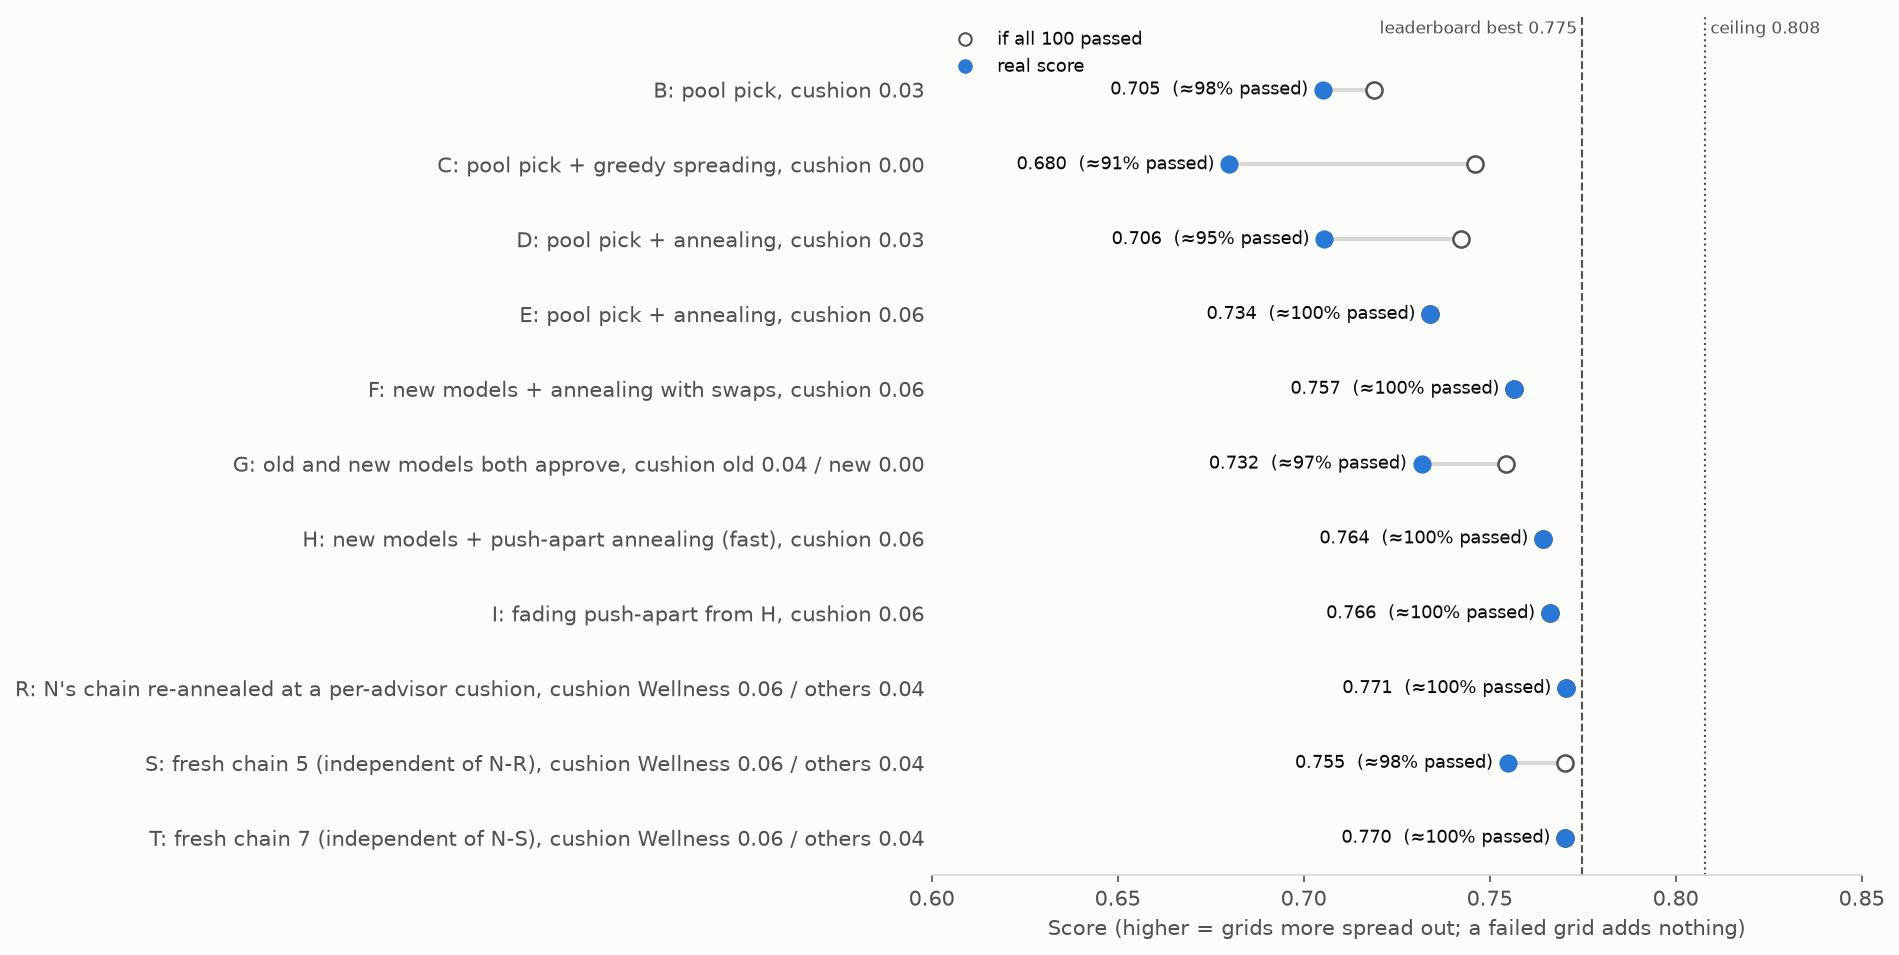
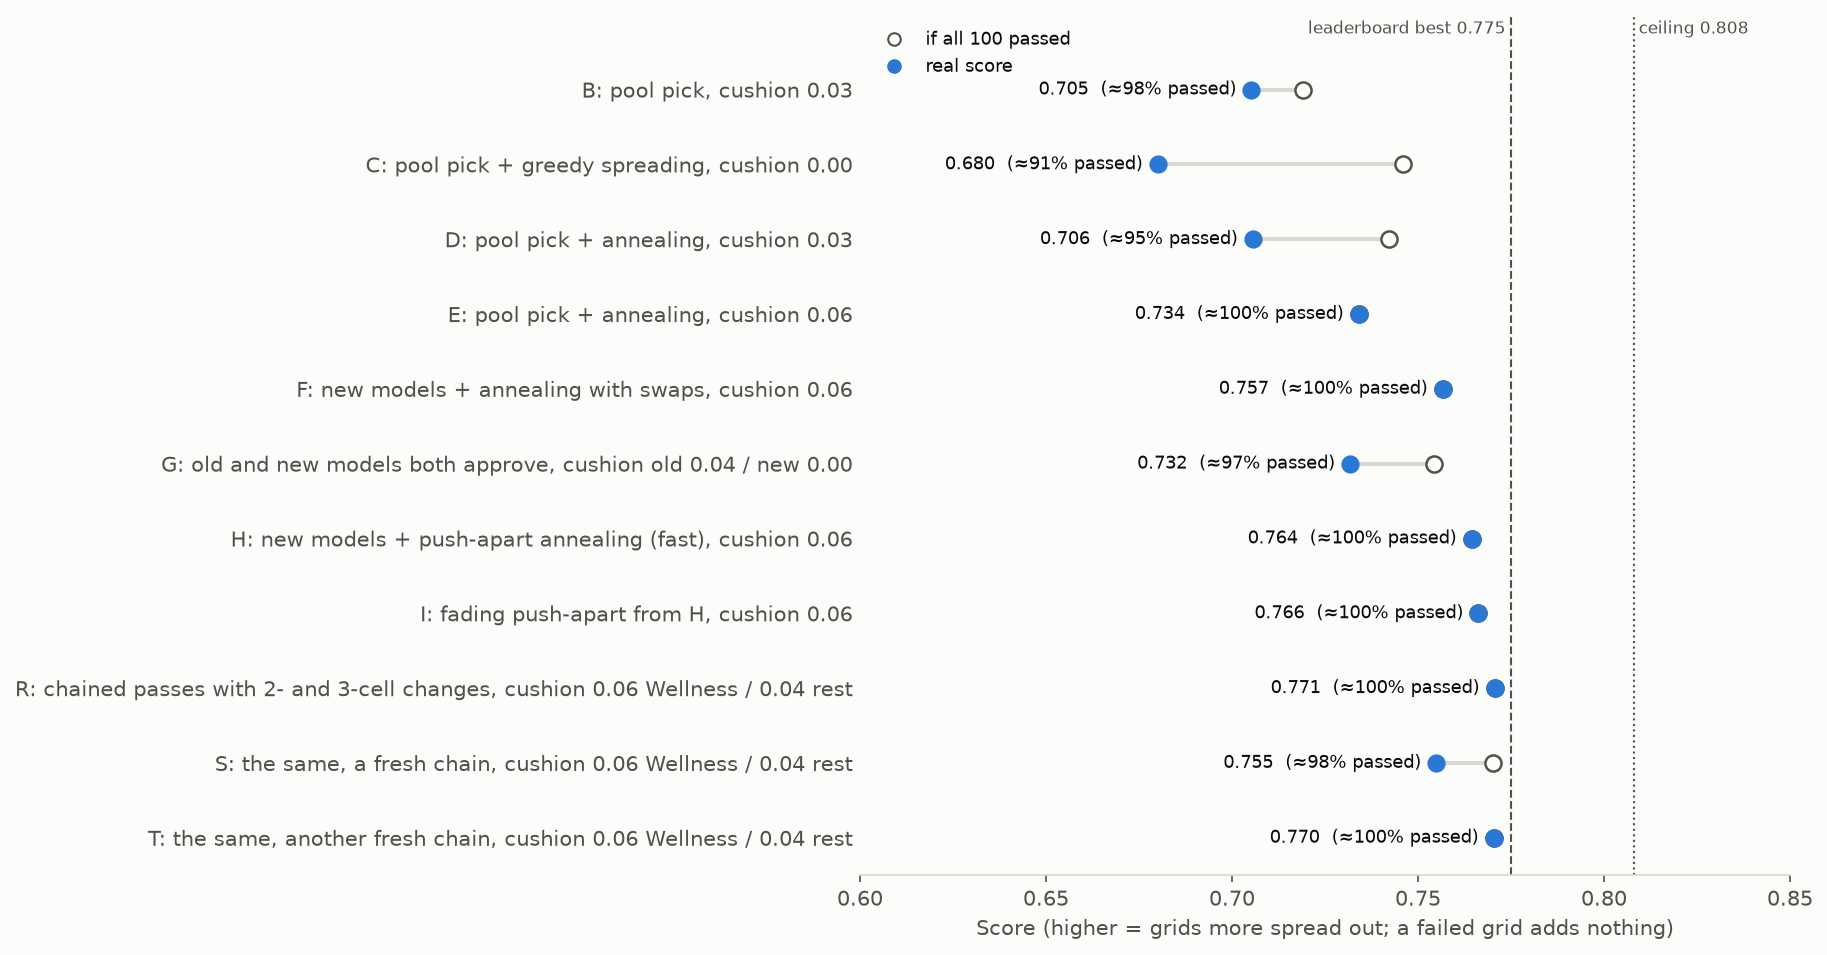
Report figures: search methods compared (new), cushion per advisor, shorter scoreboard labels

diff --git a/plots.py b/plots.py
@@ -26,7 +26,8 @@ Stage 4 figures (README Figures 2-3):
 
 Report figures (make_figures.py --stage 5):
 * ``fig_model_approvals(rows, passing)``  approvals at 98% precision, model by model.
-* ``fig_failure_bands(shares)``           held-out failures by distance above the cut-off.
+* ``fig_failure_bands(shares, cushions)`` held-out failures by distance above the cut-off.
+* ``fig_search(runs, ceilings)``           search methods from the same start, as annealing goes on.
 
 Every figure carries labels only. Titles and descriptions are captions placed below the figure
 (stage documents in docs/, analysis.ipynb), following standard practice for documents.
@@ -55,6 +56,7 @@ from __future__ import annotations
 
 import matplotlib.pyplot as plt
 import numpy as np
+from matplotlib.colors import to_rgba
 from matplotlib.lines import Line2D
 from matplotlib.patches import Patch, Rectangle
 
@@ -999,9 +1001,10 @@ def fig_model_approvals(rows, passing):
     return fig
 
 
-def fig_failure_bands(shares, cushion=0.06):
+def fig_failure_bands(shares, cushions):
     """Share of held-out grids that truly fail, by how far the model put them above its
-    cut-off (shares: {advisor: {(lo, hi): share}}), with the cushion we used marked."""
+    cut-off (shares: {advisor: {(lo, hi): share}}). Bars below an advisor's cushion
+    (cushions: {advisor: margin}) are pale: no submitted design sat there."""
     advisors = list(shares)
     bands = list(next(iter(shares.values())))
     fig, ax = plt.subplots(figsize=(8, 3.4))
@@ -1009,18 +1012,67 @@ def fig_failure_bands(shares, cushion=0.06):
     for k, adv in enumerate(advisors):
         x = np.arange(len(bands)) + (k - (len(advisors) - 1) / 2) * width
         vals = [100 * shares[adv][b] for b in bands]
-        ax.bar(x, vals, width, color=SERIES[k], edgecolor=SURFACE, linewidth=2, label=adv)
+        alpha = [1 if lo >= cushions[adv] - 1e-9 else 0.3 for lo, _ in bands]
+        ax.bar(x, vals, width, color=[to_rgba(SERIES[k], a) for a in alpha],
+               edgecolor=SURFACE, linewidth=2)
         for xi, v in zip(x, vals):
             ax.text(xi, v + 0.4, f"{v:.0f}" if v >= 10 else f"{v:.1f}", ha="center",
                     va="bottom", fontsize=7.5)
-    edge = next(i for i, (lo, _) in enumerate(bands) if lo >= cushion) - 0.5
-    ax.axvline(edge, color=INK_2, lw=1, ls="--")
-    ax.text(edge + 0.05, ax.get_ylim()[1] * 0.92, f"our cushion, {cushion}: above this line",
-            fontsize=8.5, color=INK_2)
     ax.set_xticks(range(len(bands)), [f"{lo:.2f}–{hi:.2f}" for lo, hi in bands])
     ax.set_xlabel("How far the model put the grid above its approval cut-off")
     ax.set_ylabel("Held-out grids that truly fail (%)")
     ax.grid(axis="y")
     ax.set_axisbelow(True)
-    ax.legend(fontsize=8.5, ncol=len(advisors), loc="upper center", bbox_to_anchor=(0.5, 1.12))
+    handles = [Patch(color=SERIES[k], label=f"{a} (cushion {cushions[a]:.2f})")
+               for k, a in enumerate(advisors)]
+    handles.append(Patch(color=INK_2, alpha=0.3, label="below that advisor's cushion"))
+    ax.legend(handles=handles, fontsize=8.5, loc="upper right")
+    return fig
+
+
+def _spread(values, gap):
+    """Label heights for line ends: the values, nudged apart so no two are closer than gap."""
+    order = np.argsort(values)
+    out = np.array(values, float)
+    for prev, i in zip(order, order[1:]):
+        out[i] = max(out[i], out[prev] + gap)
+    return out
+
+
+def fig_search(runs, ceilings):
+    """Score if all pass as annealing goes on, for search methods run from the same start,
+    models and cushion (runs: [{panel, method, updates, score, ends}], ends = where each
+    chained pass finished). Colour follows the method; dashed lines mark scores reached with
+    no approval rule (ceilings: {label: score})."""
+    panels = list(dict.fromkeys(r["panel"] for r in runs))
+    methods = list(dict.fromkeys(r["method"] for r in runs))
+    fig, axes = plt.subplots(1, len(panels), figsize=(10, 3.8), sharey=True)
+    for ax, panel in zip(axes, panels):
+        mine = [r for r in runs if r["panel"] == panel]
+        x_end = max(r["updates"][-1] for r in mine) / 1000
+        tops = _spread([r["score"][-1] for r in mine], 0.0013)
+        for r, top in zip(mine, tops):
+            colour = SERIES[methods.index(r["method"])]
+            x = np.array(r["updates"]) / 1000
+            ax.plot(x, r["score"], color=colour, lw=2)
+            ends = [r["updates"].index(u) for u in r["ends"]]
+            ax.scatter(x[ends], np.array(r["score"])[ends], s=40, color=colour, ec=SURFACE,
+                       lw=2, zorder=3)
+            ax.text(x[-1] + 0.03 * x_end, top, f"{r['score'][-1]:.4f}", va="center",
+                    fontsize=8.5)
+        for label, y in ceilings.items():
+            ax.axhline(y, color=INK_2, lw=1, ls="--", zorder=0)
+            ax.text(0, y + 0.0007, f"{label}: {y:.3f}", fontsize=8, color=INK_2)
+        ax.set_title(panel, fontsize=10)
+        ax.set_xlim(0, x_end * 1.15)
+        ax.set_xlabel("Annealing updates (thousands)")
+        ax.grid(axis="y")
+        ax.set_axisbelow(True)
+    axes[0].set_ylim(0.745, 0.79)
+    axes[0].set_ylabel("Score if all 100 pass")
+    handles = [Line2D([], [], color=SERIES[k], lw=2, label=m) for k, m in enumerate(methods)]
+    handles.append(Line2D([], [], marker="o", ls="", color=INK_2, label="end of a pass"))
+    fig.legend(handles=handles, loc="lower center", ncol=len(handles), fontsize=9,
+               bbox_to_anchor=(0.5, -0.06))
+    fig.tight_layout(rect=(0, 0.06, 1, 1))
     return fig

diff --git a/make_figures.py b/make_figures.py
@@ -15,6 +15,7 @@ reads   the course data (via validity.load_dev(); dev labels only, never the loc
         data/cache/nested/      Stage 2's CNN run records, via search.load_outer()
         docs/scoreboard.csv     every scoreboard try (Stage 4)
         data/cache/upgraded/    the upgraded models' held-out predictions (report figures)
+        docs/search_runs.csv    the search comparison's progress, copied from data/fast_*.log
 writes  docs/figures/*.png      (tracked in git, because the documentation shows them)
 
 How to run
@@ -23,7 +24,7 @@ How to run
     python make_figures.py --stage 1     # one stage only (0 = the README's own figures)
     python make_figures.py --stage 2     # the CNN settings chart, and the numbers behind it
     python make_figures.py --stage 4     # the pipeline and the scoreboard tries
-    python make_figures.py --stage 5     # the report's model comparison and failure bands
+    python make_figures.py --stage 5     # the report's models, failure bands and search methods
 
 Surprises
 ---------
@@ -127,6 +128,29 @@ def stage4():
 
 
 BANDS = ((0.0, 0.02), (0.02, 0.04), (0.04, 0.06), (0.06, 0.10))  # above the cut-off
+CUSHIONS = {"Wellness": 0.06, "Tax": 0.04, "Transportation": 0.04, "Business": 0.04}  # tries R, T
+SEARCH_RUNS = os.path.join(validity.PS2_ROOT, "docs", "search_runs.csv")
+NO_RULE = {  # decisions.md, 9 Nov (morning, continued): from F, distances only
+    "our search, no approval rule": 0.7766,
+    "grids built from a code, no approval rule": 0.7837,
+}
+
+
+def _search_runs():
+    """docs/search_runs.csv as one run per (panel, method), with the updates where each
+    chained pass ended."""
+    runs = {}
+    with open(SEARCH_RUNS) as f:
+        for r in csv.DictReader(f):
+            run = runs.setdefault((r["panel"], r["method"]), {
+                "panel": r["panel"], "method": r["method"], "updates": [], "score": [], "logs": []})
+            run["updates"].append(int(r["updates"]))
+            run["score"].append(float(r["score_if_all_pass"]))
+            run["logs"].append(r["log"])
+    for run in runs.values():
+        logs = run.pop("logs")
+        run["ends"] = [u for u, a, b in zip(run["updates"], logs, logs[1:] + [None]) if a != b]
+    return list(runs.values())
 
 
 def _upgraded_held_out(advisor):
@@ -137,7 +161,8 @@ def _upgraded_held_out(advisor):
 
 
 def report():
-    """The report's model comparison and failure bands (held out, development ratings only)."""
+    """The report's model comparison, failure bands (held out, development ratings only) and
+    search methods."""
     grids, dev = validity.load_dev()
     stage1 = validity.scorecard(["gbm_onehot"], verbose=False)["gbm_onehot"]
     recipes = {  # labels for readers who don't know the project's stages
@@ -170,7 +195,8 @@ def report():
     for a, s in shares.items():
         print(f"  {a} failing by band: " + ", ".join(f"{100 * v:.1f}%" for v in s.values()))
     _save(plots.fig_model_approvals(rows, passing), "report_models.png")
-    _save(plots.fig_failure_bands(shares), "report_cushion.png")
+    _save(plots.fig_failure_bands(shares, CUSHIONS), "report_cushion.png")
+    _save(plots.fig_search(_search_runs(), NO_RULE), "report_search.png")
 
 
 STAGES = {0: readme, 1: stage1, 2: stage2, 4: stage4, 5: report}  # 0 = the README's own figures
